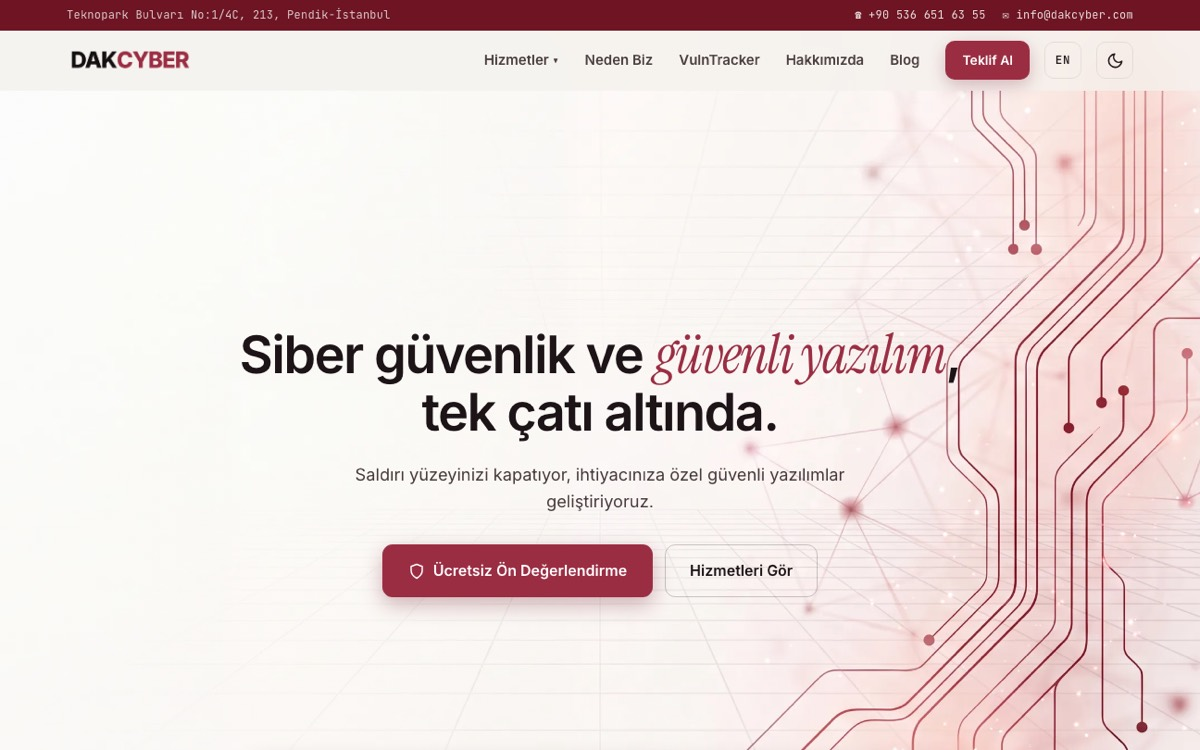
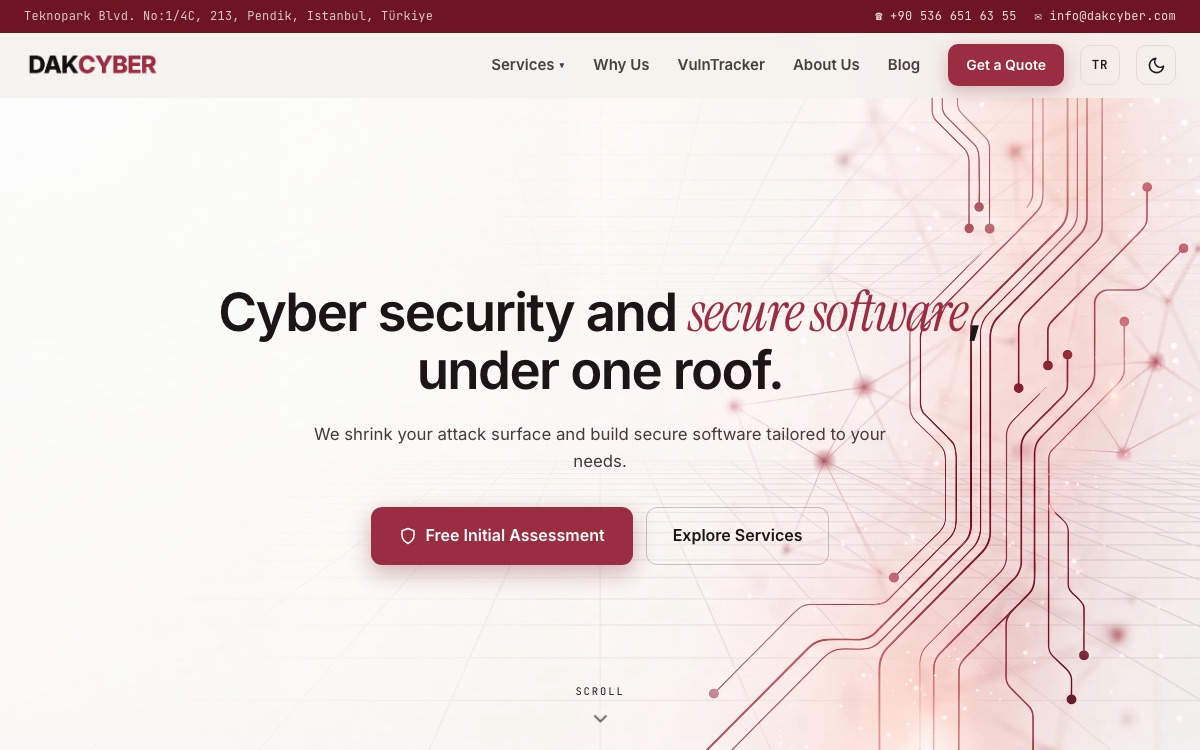
Add agent command center card; DAKCYBER shot from EN site

diff --git a/index.html b/index.html
@@ -228,6 +228,7 @@ h3.sub::before { content: "## "; color: var(--acc); }
 .shot .bar i { width: .5rem; height: .5rem; border-radius: 50%; background: var(--line2); }
 .shot .bar i:first-child { background: var(--acc); }
 .shot .bar span { margin-left: .5rem; overflow: hidden; text-overflow: ellipsis; white-space: nowrap; }
+.shot .ph { display: block; width: 100%; height: auto; }
 .shot img { width: 100%; aspect-ratio: 16 / 10; object-fit: cover; object-position: top; }
 .shot a { display: block; }
 .shot a:hover img { opacity: .92; }
@@ -517,10 +518,38 @@ dialog iframe { display: block; width: 100%; height: min(640px, 75vh); border: 0
           </div>
         </article>
 
+        <article class="case" id="agent-center">
+          <figure class="shot">
+            <div class="bar" aria-hidden="true"><i></i><i></i><i></i><span>agent command center · working title</span></div>
+            <svg class="ph" viewBox="0 0 1200 750" role="img" aria-label="Illustration: a list of AI coding-agent sessions, each with a status dot and progress bar.">
+              <rect width="1200" height="750" fill="var(--bg2)"/>
+              <rect x="0" y="0" width="300" height="750" fill="var(--bg3)"/>
+              <g fill="var(--line2)"><rect x="40" y="60" width="180" height="16" rx="4"/><rect x="40" y="120" width="140" height="12" rx="4"/><rect x="40" y="160" width="160" height="12" rx="4"/><rect x="40" y="200" width="120" height="12" rx="4"/></g>
+              <g>
+                <g transform="translate(360,80)"><circle cx="12" cy="20" r="9" fill="var(--acc)"/><rect x="40" y="10" width="300" height="18" rx="4" fill="var(--line2)"/><rect x="40" y="44" width="720" height="10" rx="5" fill="var(--line)"/><rect x="40" y="44" width="430" height="10" rx="5" fill="var(--acc)" opacity=".6"/></g>
+                <g transform="translate(360,210)"><circle cx="12" cy="20" r="9" fill="var(--muted)"/><rect x="40" y="10" width="240" height="18" rx="4" fill="var(--line2)"/><rect x="40" y="44" width="720" height="10" rx="5" fill="var(--line)"/><rect x="40" y="44" width="610" height="10" rx="5" fill="var(--muted)" opacity=".5"/></g>
+                <g transform="translate(360,340)"><circle cx="12" cy="20" r="9" fill="var(--acc)"/><rect x="40" y="10" width="340" height="18" rx="4" fill="var(--line2)"/><rect x="40" y="44" width="720" height="10" rx="5" fill="var(--line)"/><rect x="40" y="44" width="180" height="10" rx="5" fill="var(--acc)" opacity=".6"/><rect x="80" y="80" width="260" height="12" rx="4" fill="var(--line)"/><rect x="80" y="108" width="200" height="12" rx="4" fill="var(--line)"/></g>
+                <g transform="translate(360,520)"><circle cx="12" cy="20" r="9" fill="var(--muted)"/><rect x="40" y="10" width="200" height="18" rx="4" fill="var(--line2)"/><rect x="40" y="44" width="720" height="10" rx="5" fill="var(--line)"/><rect x="40" y="44" width="720" height="10" rx="5" fill="var(--muted)" opacity=".5"/></g>
+              </g>
+            </svg>
+          </figure>
+          <div>
+            <div class="kick"><span class="st soon">In development</span><span>Mac app · by DAKCYBER</span></div>
+            <h3>Agent command center <span class="mut" style="font-weight:400;font-size:.55em;letter-spacing:0">(working title)</span></h3>
+            <p>A native macOS command center that finds every AI coding-agent session on your Mac and shows what each is doing, its subagents and tasks, and what needs you. All local.</p>
+            <dl class="meta">
+              <dt>Role</dt><dd>Built at DAKCYBER</dd>
+              <dt>Sees</dt><dd>Sessions, subagents, tasks and anything waiting on you</dd>
+              <dt>Data</dt><dd>Stays on your Mac</dd>
+            </dl>
+            <span class="mut" style="font-size:.875rem">not public yet</span>
+          </div>
+        </article>
+
         <article class="case" id="dakcyber">
           <figure class="shot">
             <div class="bar" aria-hidden="true"><i></i><i></i><i></i><span>https://dakcyber.com</span></div>
-            <a href="https://dakcyber.com" target="_blank" rel="noopener" tabindex="-1"><img src="/assets/img/work/dakcyber.jpg" width="1200" height="750" loading="lazy" decoding="async" alt="DAKCYBER home page: Siber güvenlik ve güvenli yazılım, tek çatı altında."></a>
+            <a href="https://dakcyber.com" target="_blank" rel="noopener" tabindex="-1"><img src="/assets/img/work/dakcyber.jpg" width="1200" height="750" loading="lazy" decoding="async" alt="DAKCYBER home page: Cyber security and secure software, under one roof."></a>
           </figure>
           <div>
             <div class="kick"><span class="st live">Live</span><span>Company · Teknopark İstanbul</span></div>
@@ -748,7 +777,7 @@ dialog iframe { display: block; width: 100%; height: min(640px, 75vh); border: 0
     try { sessionStorage.setItem('yn-boot', '1'); } catch (e) {}
     var boot = $('#boot'), pre = $('#boot-out'), timers = [], ended = false;
     function pad(s, n) { s = String(s); while (s.length < n) s += ' '; return s; }
-    var rows = [['80/tcp', 'work', 'VulnTracker, Bowerbird, Warden, DAKCYBER'], ['443/tcp', 'labs', '53 OffSec PG machines'], ['8443/tcp', 'exploits', '16 public CVE PoCs'], ['25/tcp', 'contact', 'x.com/0xdak_']];
+    var rows = [['80/tcp', 'work', 'VulnTracker, Bowerbird, Warden, agent center, DAKCYBER'], ['443/tcp', 'labs', '53 OffSec PG machines'], ['8443/tcp', 'exploits', '16 public CVE PoCs'], ['25/tcp', 'contact', 'x.com/0xdak_']];
     var lines = ['<span class="mut">' + pad('PORT', 10) + pad('STATE', 7) + 'SERVICE</span>'];
     rows.forEach(function (p) { lines.push(pad(p[0], 10) + '<span class="ok">' + pad('open', 7) + '</span>' + pad(p[1], 10) + '<span class="mut">' + p[2] + '</span>'); });
     var cmd = 'nmap -sV yuznumara.com', head = '<span class="ok">$</span> ';
